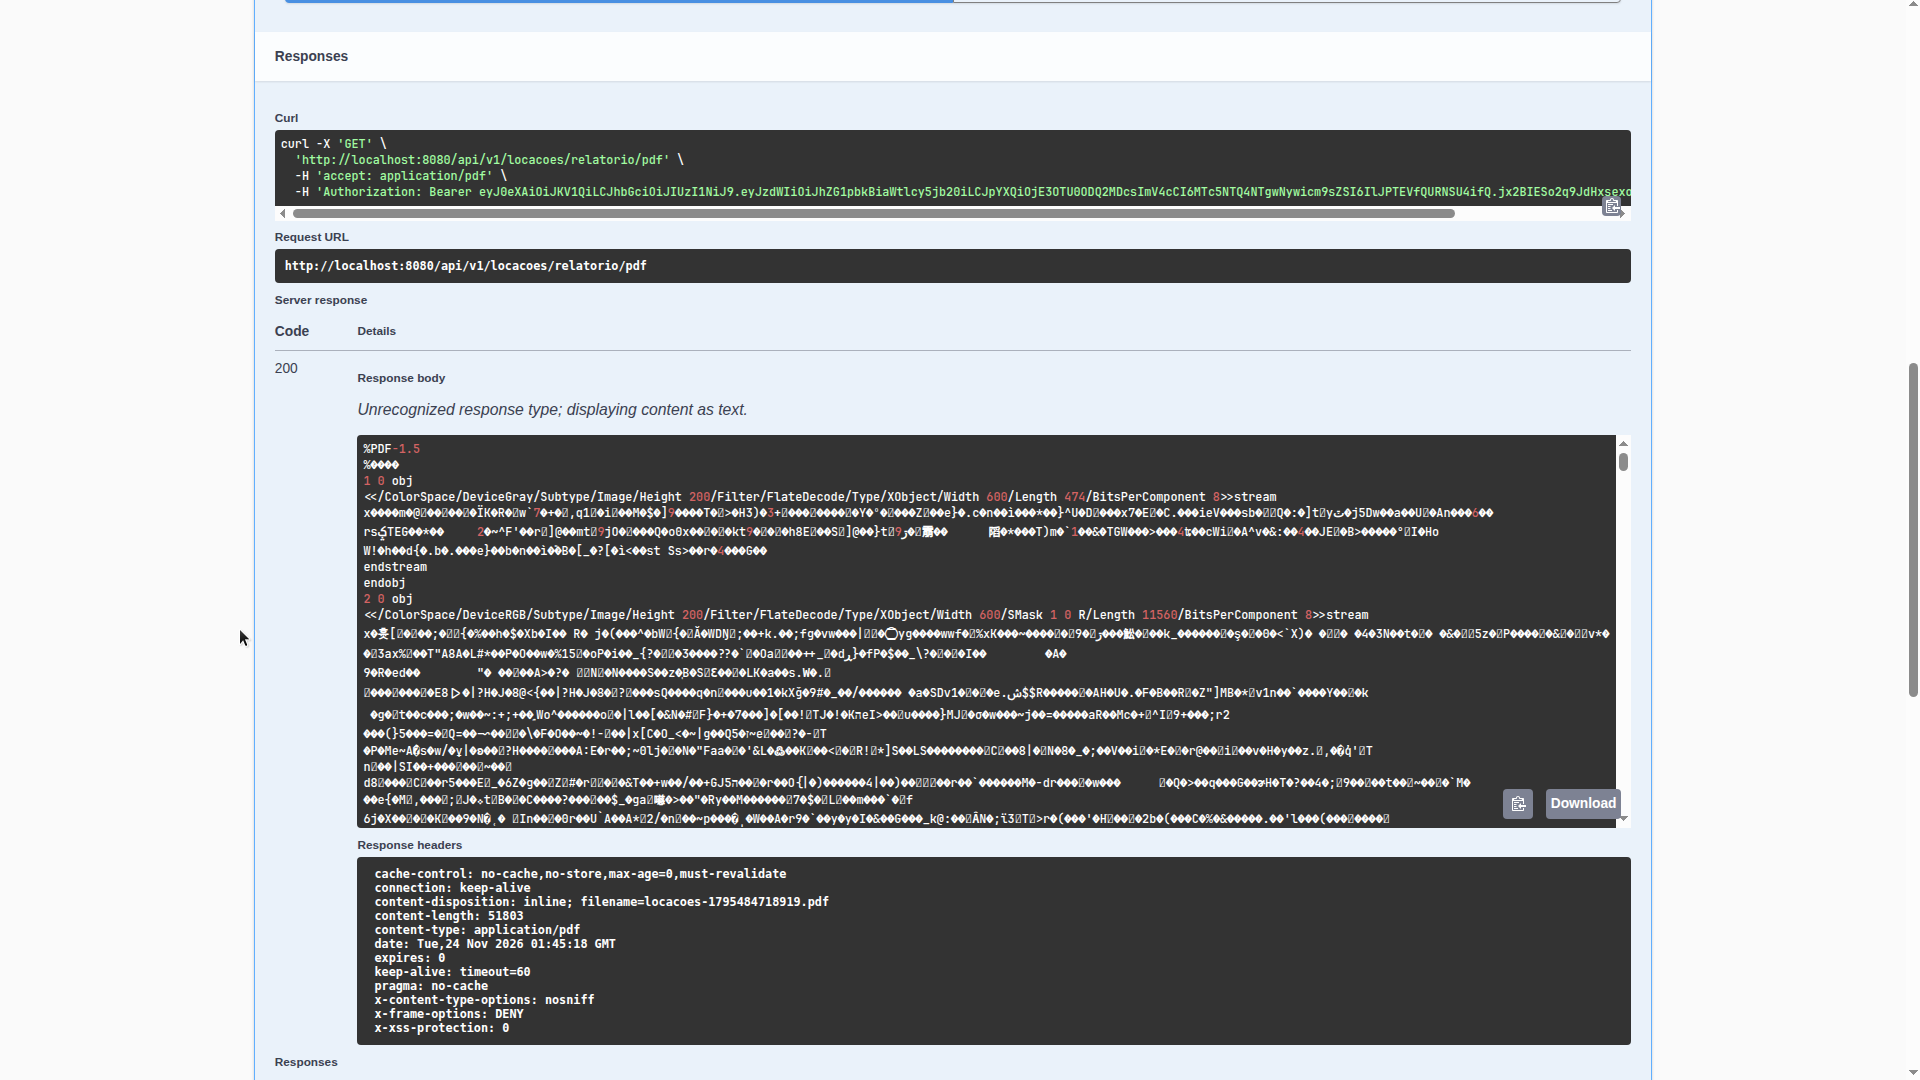
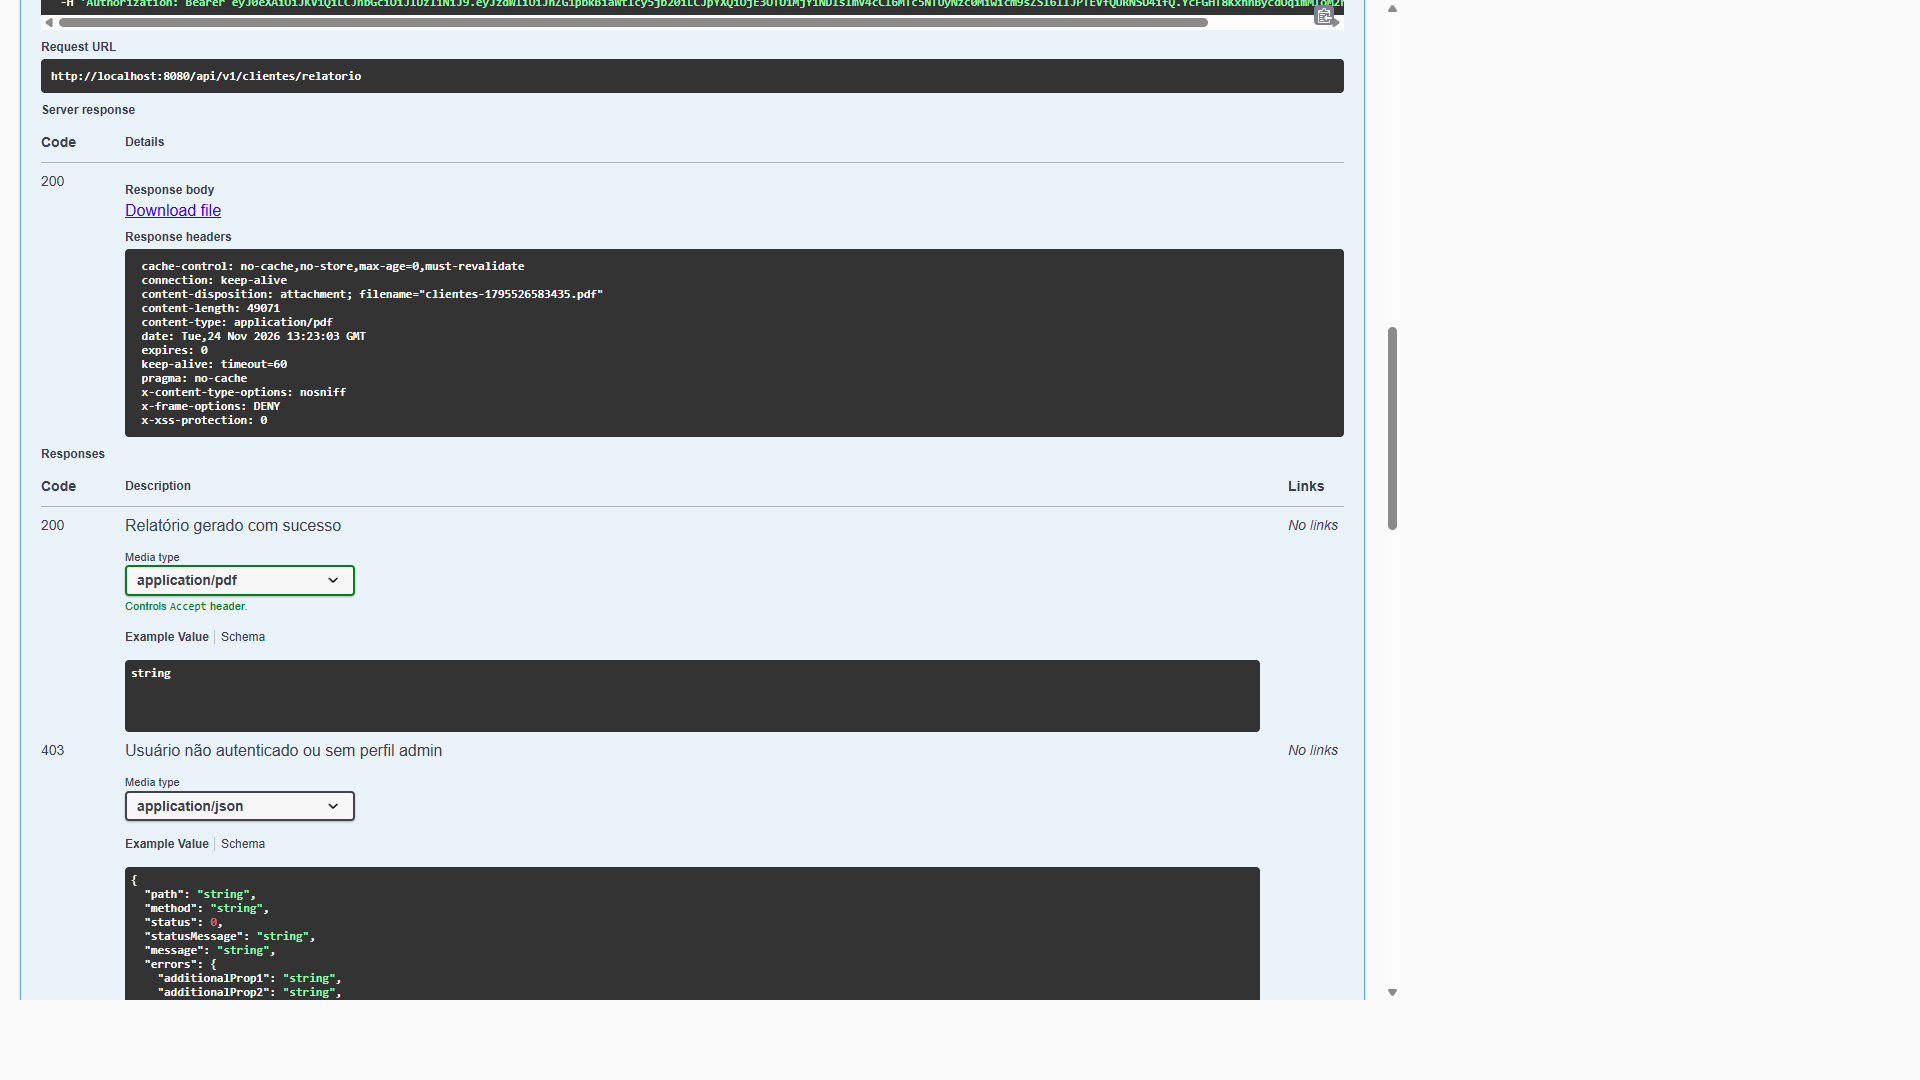
Cursor/pdf content disposition attachment (#8)
* fix: restaura o .env do docker compose (removido em e3f8319) e ajusta o comando de promoção a ADMIN para bash/PowerShell

* fix(relatorios): Content-Disposition attachment nos PDFs para o Swagger UI exibir o link Download file

---------

diff --git a/src/main/java/br/edu/ifc/bikes/web/controller/LocacaoController.java b/src/main/java/br/edu/ifc/bikes/web/controller/LocacaoController.java
@@ -14,6 +14,7 @@ import io.swagger.v3.oas.annotations.responses.ApiResponse;
 import io.swagger.v3.oas.annotations.tags.Tag;
 import jakarta.validation.Valid;
 import lombok.RequiredArgsConstructor;
+import org.springframework.http.ContentDisposition;
 import org.springframework.http.HttpHeaders;
 import org.springframework.http.HttpStatus;
 import org.springframework.http.MediaType;
@@ -138,9 +139,13 @@ public class LocacaoController {
     @PreAuthorize("hasRole('ADMIN')")
     public ResponseEntity<byte[]> getRelatorioPdf() {
         byte[] relatorio = locacaoService.getRelatorioPdf();
+        //attachment (e não inline): o Swagger UI só exibe o link "Download file" para respostas marcadas como anexo
+        ContentDisposition anexo = ContentDisposition.attachment()
+                .filename("locacoes-" + System.currentTimeMillis() + ".pdf")
+                .build();
         return ResponseEntity.ok()
                 .contentType(MediaType.APPLICATION_PDF)
-                .header(HttpHeaders.CONTENT_DISPOSITION, "inline; filename=locacoes-" + System.currentTimeMillis() + ".pdf")
+                .header(HttpHeaders.CONTENT_DISPOSITION, anexo.toString())
                 .body(relatorio);
     }
 }

diff --git a/src/main/java/br/edu/ifc/bikes/web/controller/ClienteController.java b/src/main/java/br/edu/ifc/bikes/web/controller/ClienteController.java
@@ -12,6 +12,7 @@ import io.swagger.v3.oas.annotations.responses.ApiResponse;
 import io.swagger.v3.oas.annotations.tags.Tag;
 import jakarta.validation.Valid;
 import lombok.RequiredArgsConstructor;
+import org.springframework.http.ContentDisposition;
 import org.springframework.http.HttpHeaders;
 import org.springframework.http.HttpStatus;
 import org.springframework.http.MediaType;
@@ -111,9 +112,13 @@ public class ClienteController {
     @PreAuthorize("hasRole('ADMIN')")
     public ResponseEntity<byte[]> gerarRelatorio() {
         byte[] relatorio = clienteService.getRelatorioPdf();
+        //attachment (e não inline): o Swagger UI só exibe o link "Download file" para respostas marcadas como anexo
+        ContentDisposition anexo = ContentDisposition.attachment()
+                .filename("clientes-" + System.currentTimeMillis() + ".pdf")
+                .build();
         return ResponseEntity.ok()
                 .contentType(MediaType.APPLICATION_PDF)
-                .header(HttpHeaders.CONTENT_DISPOSITION, "inline; filename=clientes-" + System.currentTimeMillis() + ".pdf")
+                .header(HttpHeaders.CONTENT_DISPOSITION, anexo.toString())
                 .body(relatorio);
     }
 }

diff --git a/src/test/java/br/edu/ifc/bikes/web/controller/ClienteControllerIT.java b/src/test/java/br/edu/ifc/bikes/web/controller/ClienteControllerIT.java
@@ -204,7 +204,7 @@ class ClienteControllerIT {
                         .header("Authorization", "Bearer " + tokenAdmin))
                 .andExpect(status().isOk())
                 .andExpect(content().contentType(MediaType.APPLICATION_PDF))
-                .andExpect(header().string("Content-Disposition", startsWith("inline; filename=clientes-")))
+                .andExpect(header().string("Content-Disposition", startsWith("attachment; filename=\"clientes-")))
                 .andReturn().getResponse().getContentAsByteArray();
 
         assertTrue(pdf.length > 1000);

diff --git a/src/test/java/br/edu/ifc/bikes/web/controller/LocacaoControllerIT.java b/src/test/java/br/edu/ifc/bikes/web/controller/LocacaoControllerIT.java
@@ -286,7 +286,7 @@ class LocacaoControllerIT {
                         .header("Authorization", "Bearer " + tokenAdmin))
                 .andExpect(status().isOk())
                 .andExpect(content().contentType(MediaType.APPLICATION_PDF))
-                .andExpect(header().string("Content-Disposition", startsWith("inline; filename=locacoes-")))
+                .andExpect(header().string("Content-Disposition", startsWith("attachment; filename=\"locacoes-")))
                 .andReturn().getResponse().getContentAsByteArray();
 
         assertTrue(pdf.length > 1000);

diff --git a/src/test/java/br/edu/ifc/bikes/web/controller/LocacaoControllerTest.java b/src/test/java/br/edu/ifc/bikes/web/controller/LocacaoControllerTest.java
@@ -207,7 +207,7 @@ class LocacaoControllerTest {
         mockMvc.perform(get(URL + "/relatorio/pdf"))
                 .andExpect(status().isOk())
                 .andExpect(content().contentType(MediaType.APPLICATION_PDF))
-                .andExpect(header().string("Content-Disposition", startsWith("inline; filename=locacoes-")))
+                .andExpect(header().string("Content-Disposition", startsWith("attachment; filename=\"locacoes-")))
                 .andExpect(content().bytes(pdf));
     }
 

diff --git a/src/test/java/br/edu/ifc/bikes/web/controller/ClienteControllerTest.java b/src/test/java/br/edu/ifc/bikes/web/controller/ClienteControllerTest.java
@@ -126,7 +126,7 @@ class ClienteControllerTest {
         mockMvc.perform(get(URL + "/relatorio"))
                 .andExpect(status().isOk())
                 .andExpect(content().contentType(MediaType.APPLICATION_PDF))
-                .andExpect(header().string("Content-Disposition", startsWith("inline; filename=clientes-")))
+                .andExpect(header().string("Content-Disposition", startsWith("attachment; filename=\"clientes-")))
                 .andExpect(content().bytes(pdf));
     }
 

diff --git a/README.md b/README.md
@@ -261,11 +261,16 @@ Todo usuário criado pela API nasce como `CLIENTE`. Para os fluxos de administra
 {"username":"admin@bikes.com","password":"123456"}
 ```
 
-2. Promova-o no MySQL do compose (a senha do `root` é a `MYSQL_ROOT_PASSWORD` do seu `.env`):
+2. Promova-o no MySQL do compose (a senha do `root` é a `MYSQL_ROOT_PASSWORD` do [`.env`](.env), `root` no ambiente de avaliação). O comando abaixo funciona tanto no bash quanto no PowerShell — em uma única linha e sem `;` dentro do `-e`, que o PowerShell corta:
 
 ```bash
-docker compose exec mysql mysql -uroot -p bikes \
-  -e "UPDATE usuarios SET role='ROLE_ADMIN' WHERE username='admin@bikes.com';"
+docker compose exec mysql mysql -uroot -proot bikes -e "UPDATE usuarios SET role='ROLE_ADMIN' WHERE username='admin@bikes.com'"
+```
+
+Para conferir:
+
+```bash
+docker compose exec mysql mysql -uroot -proot bikes -e "SELECT id, username, role FROM usuarios"
 ```
 
 > O perfil é lido do banco a cada requisição, então um token já emitido para esse usuário passa a valer como `ADMIN` imediatamente — não é preciso autenticar de novo.
@@ -376,7 +381,7 @@ Troque para o token do **admin**:
 
 ![Swagger — relatório JSON](docs/evidencias/swagger-09-relatorio-json.png)
 
-3. **Locacoes → `GET /api/v1/locacoes/relatorio/pdf`** → `200` com `content-type: application/pdf` e `content-disposition: inline; filename=locacoes-<timestamp>.pdf` nos *Response headers*. Como o corpo é binário, o Swagger mostra o conteúdo bruto (`%PDF-1.5 ...`) e o botão **Download** para salvar o arquivo. O mesmo vale para **Clientes → `GET /api/v1/clientes/relatorio`**.
+3. **Locacoes → `GET /api/v1/locacoes/relatorio/pdf`** → `200` com `content-type: application/pdf` e `content-disposition: attachment; filename="locacoes-<timestamp>.pdf"` nos *Response headers*. Por ser um anexo, o Swagger exibe o link **Download file** para salvar o PDF (sem o `attachment`, ele despejaria os bytes como texto com o aviso *Unrecognized response type*). O mesmo vale para **Clientes → `GET /api/v1/clientes/relatorio`**.
 
 ![Swagger — relatório PDF](docs/evidencias/swagger-10-relatorio-pdf.png)
 
